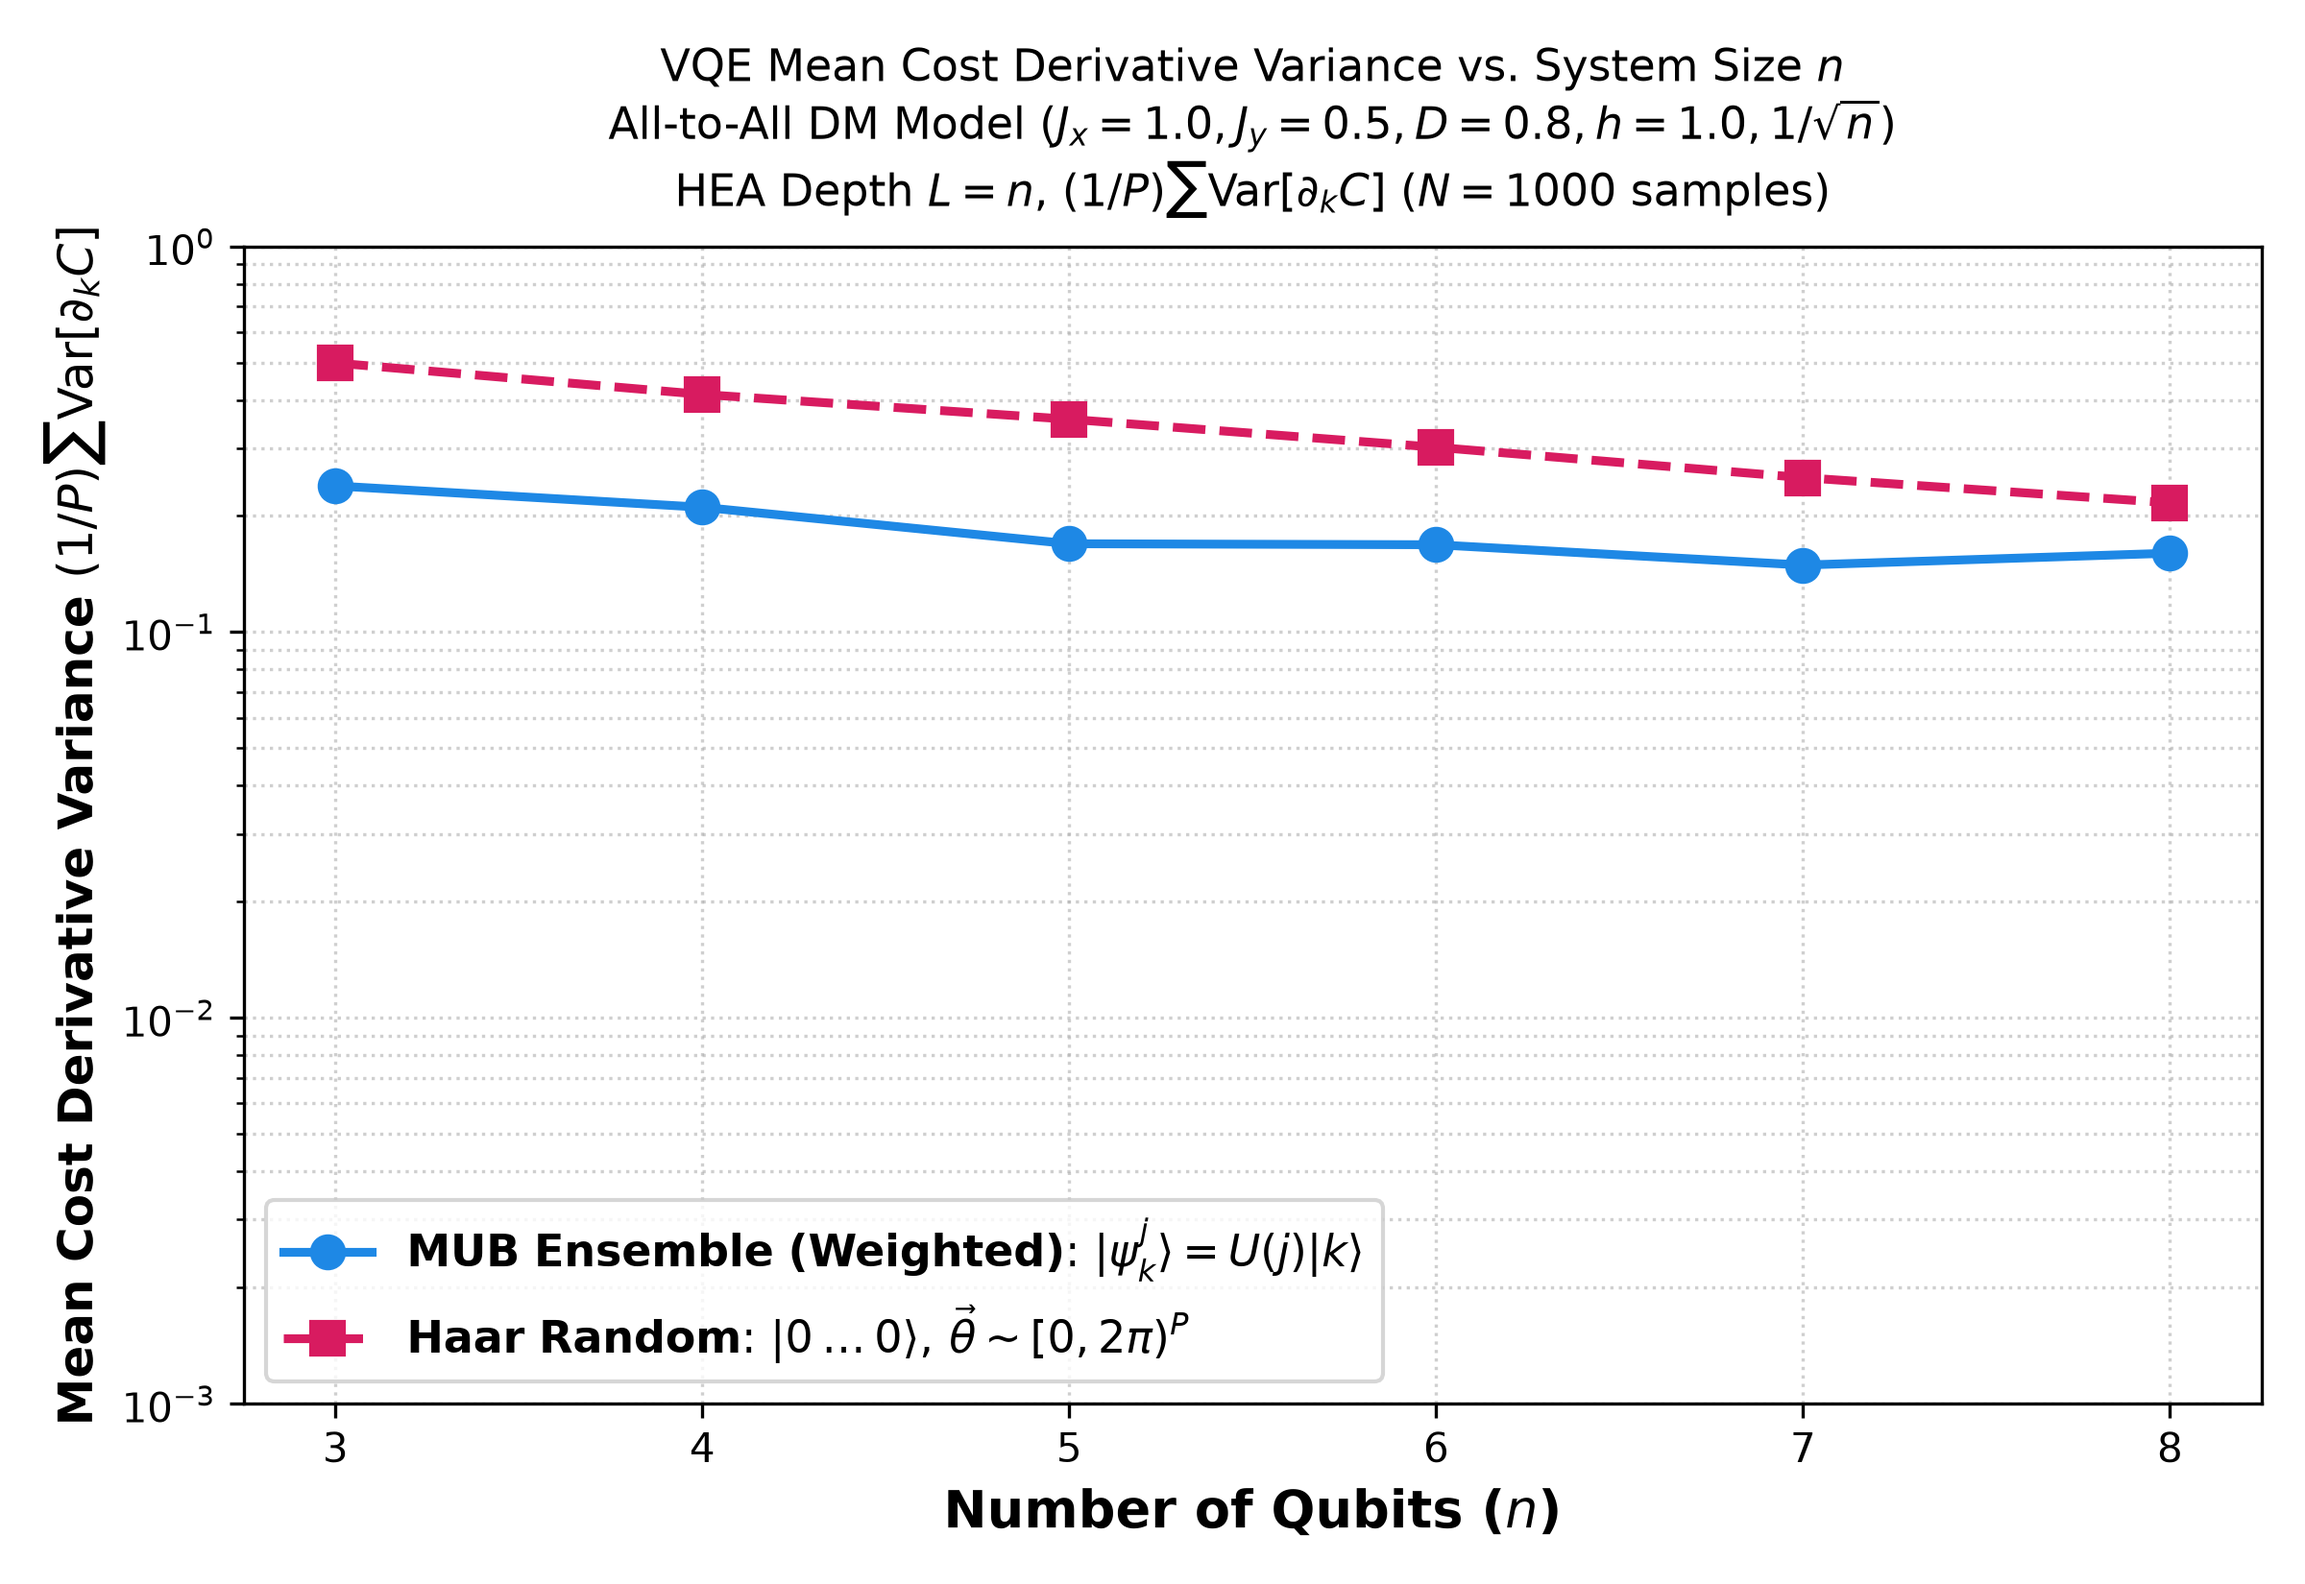
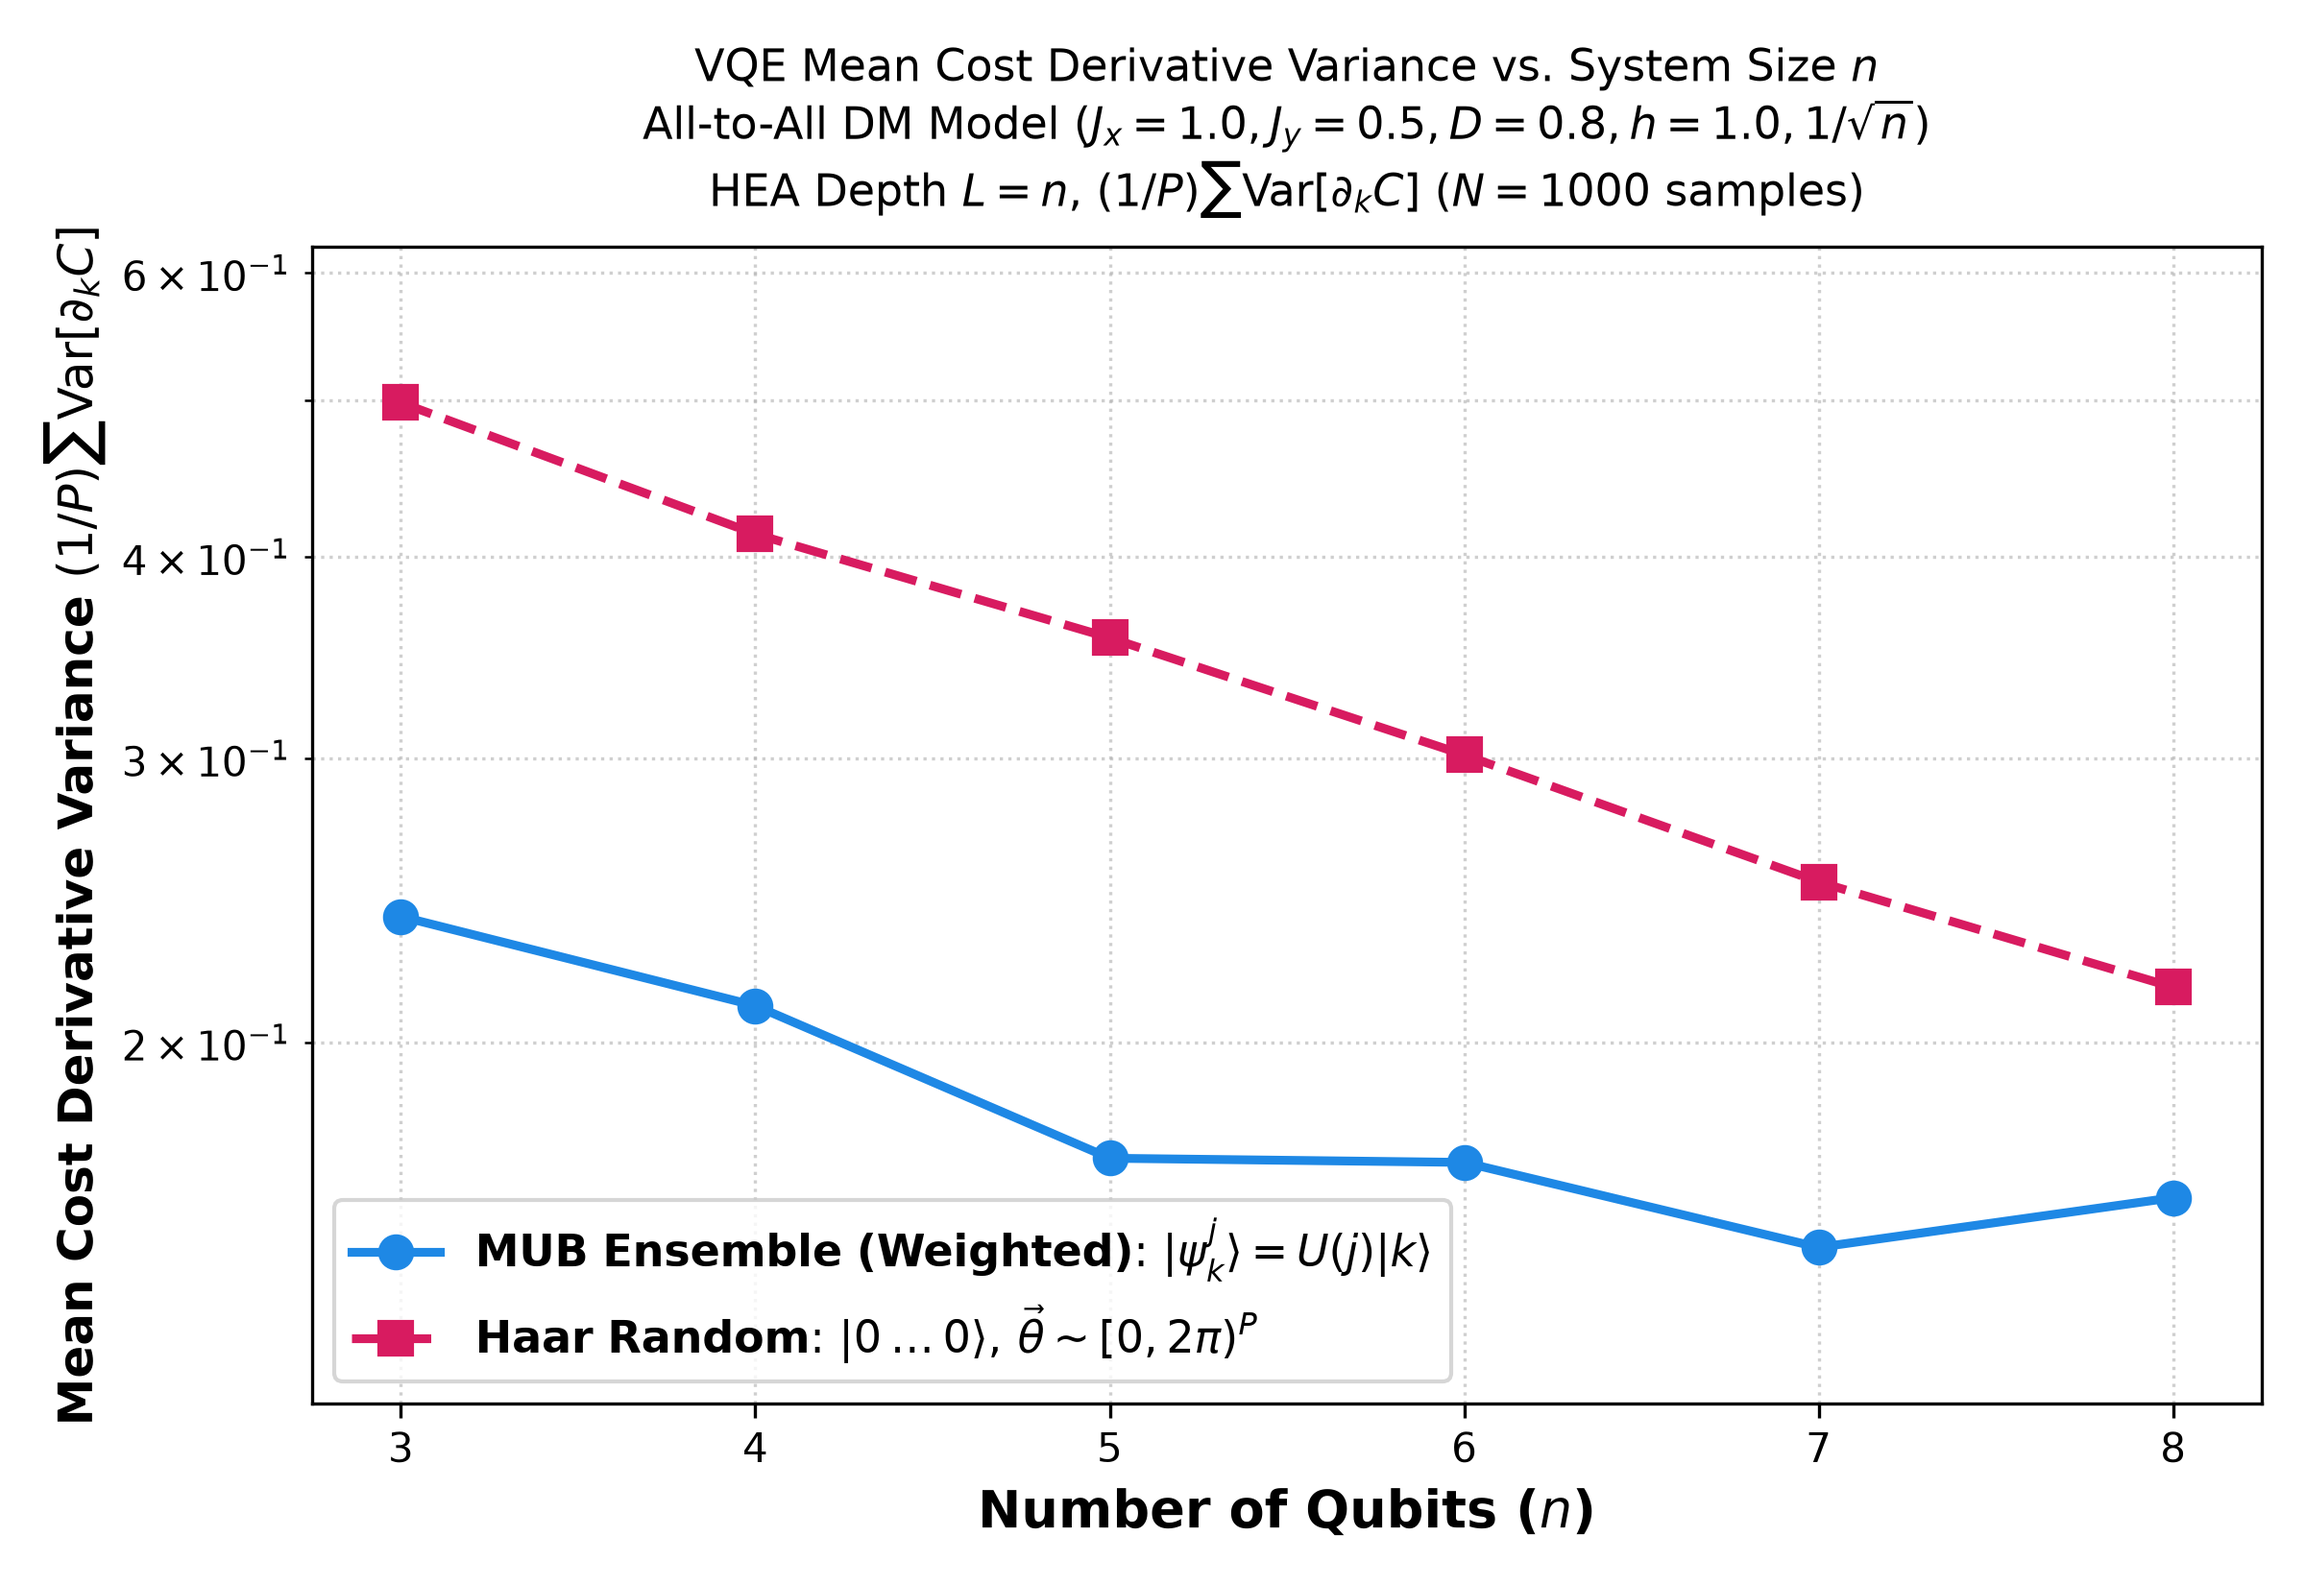
fix: adjust plot y-limits to focus on data range

diff --git a/src/MUB_Circuits_generator/benchmark.py b/src/MUB_Circuits_generator/benchmark.py
@@ -448,9 +448,13 @@ def plot_variance_benchmark(
             pad=10
         )
 
-    # Ensure y-axis covers at least 10^-3 to 10^0
-    ymin, ymax = ax.get_ylim()
-    ax.set_ylim(bottom=min(1e-3, ymin), top=max(1.0, ymax))
+    # Restrict y-axis tightly around the data points with padding
+    all_vals = np.concatenate([haar_var, mub_var])
+    pos_vals = all_vals[all_vals > 0]
+    if len(pos_vals) > 0:
+        min_val = float(np.min(pos_vals))
+        max_val = float(np.max(pos_vals))
+        ax.set_ylim(bottom=min_val * 0.8, top=max_val * 1.25)
 
     ax.set_xticks(qubits)
     ax.grid(True, which="both", linestyle=":", alpha=0.6)
